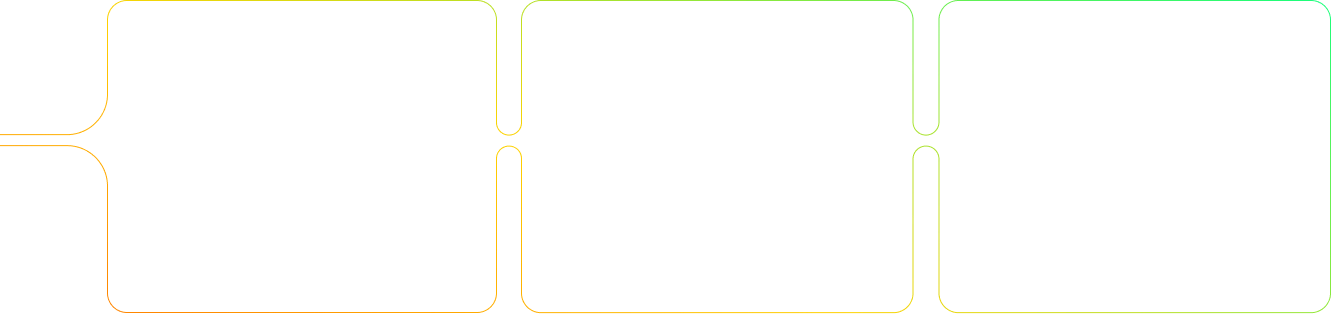
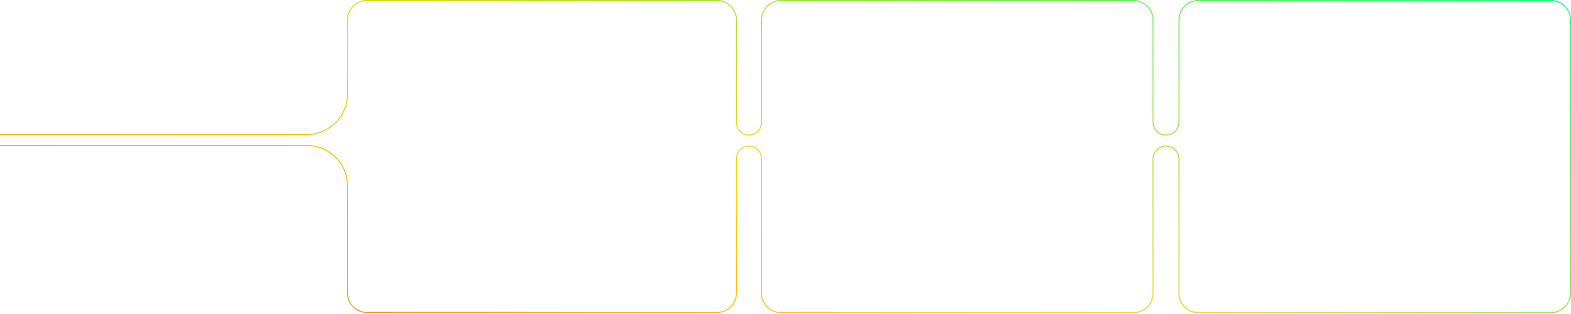
styles: extend Values block lines

diff --git a/src/components/Safenet/Values/styles.module.css b/src/components/Safenet/Values/styles.module.css
@@ -10,8 +10,7 @@
   display: flex;
   flex-direction: column;
   align-items: center;
-
-  overflow: hidden;
+  /* overflow: hidden; */
 }
 
 .upperArc {
@@ -162,22 +161,16 @@
 
   .blocksWrapper {
     display: block;
+    position: relative;
     margin-top: 100px;
     width: 100%;
-
-    position: relative;
-    --image-offset: 30px;
   }
 
   .blocks {
-    background-image: url('/images/Safenet/Values/blocks.png');
-    background-repeat: no-repeat;
-    background-size: contain;
-
     position: absolute;
-    width: calc(100% + var(--image-offset));
-    left: calc(-1 * var(--image-offset));
-    height: 100%;
+    right: 0;
+    max-width: none;
+    height: 214px;
   }
 
   .processor {
@@ -247,6 +240,10 @@
     gap: 20px;
   }
 
+  .blocks {
+    height: 284px;
+  }
+
   .blockItem {
     height: 282px;
     width: 350px;
@@ -272,6 +269,10 @@
   .blocksContainer {
     padding-left: 100px;
     gap: 34px;
+  }
+
+  .blocks {
+    height: 384px;
   }
 
   .blockItem {

diff --git a/src/components/Safenet/Roadmap/index.tsx b/src/components/Safenet/Roadmap/index.tsx
@@ -1,6 +1,7 @@
 import { Button, Container, Grid, IconButton, Typography } from '@mui/material'
 import GradientChip from '@/components/Safenet/GradientChip'
 import { SAFENET_TELEGRAM_LINK } from '@/config/constants'
+import TimelineIcon from '@/public/images/Safenet/timeline.svg'
 import TelegramGradient from '@/public/images/Safenet/telegram-gradient.svg'
 import css from './styles.module.css'
 
@@ -36,7 +37,7 @@ const Roadmap = () => (
       <Typography>Builder mode on.</Typography>
     </div>
 
-    <img src="/images/Safenet/timeline.png" alt="Safenet timeline" width="100%" className={css.timelineImage} />
+    <TimelineIcon className={css.timelineImage} />
 
     <Grid container className={css.gridContainer}>
       {items.map(({ title, features }, index) => (

diff --git a/src/components/Safenet/Architecture/index.tsx b/src/components/Safenet/Architecture/index.tsx
@@ -15,8 +15,8 @@ const userSteps: Array<{ step: number; text: string; icon?: { src: string; alt: 
     step: 2,
     text: 'Gets liquidity',
     icon: {
-      src: '/images/Safenet/Architecture/arrow-next-gradient.svg',
-      alt: 'Arrow next gradient',
+      src: '/images/Safenet/Architecture/arrow-back-gradient.svg',
+      alt: 'Arrow back gradient',
     },
   },
   {
@@ -35,8 +35,8 @@ const userSteps: Array<{ step: number; text: string; icon?: { src: string; alt: 
     step: 5,
     text: 'Returns liquidity',
     icon: {
-      src: '/images/Safenet/Architecture/arrow-back-gradient.svg',
-      alt: 'Arrow back gradient',
+      src: '/images/Safenet/Architecture/arrow-next-gradient.svg',
+      alt: 'Arrow next gradient',
     },
   },
 ]

diff --git a/src/components/Safenet/Values/index.tsx b/src/components/Safenet/Values/index.tsx
@@ -73,7 +73,7 @@ const Values = () => (
       </div>
 
       <div className={css.blocksWrapper}>
-        <div className={css.blocks} />
+        <img src="/images/Safenet/Values/blocks.png" alt="Blocks background" className={css.blocks} />
         <img src="/images/Safenet/Values/processor.png" alt="Processor image" className={css.processor} />
         <img src="/images/Safenet/Values/cross.png" alt="Cross image" className={css.cross} />
 

diff --git a/src/components/Safenet/CrossChain/styles.module.css b/src/components/Safenet/CrossChain/styles.module.css
@@ -155,10 +155,6 @@
     width: 100%;
     height: 366px;
   }
-
-  .blockItem {
-    /* height: 300px; */
-  }
 }
 
 @media (min-width: 1630px) {

diff --git a/src/components/Safenet/Hero/styles.module.css b/src/components/Safenet/Hero/styles.module.css
@@ -139,6 +139,12 @@
   }
 }
 
+@media (min-width: 1630px) {
+  .contentWrapper {
+    gap: 40px;
+  }
+}
+
 @keyframes bounce {
   from,
   to {
